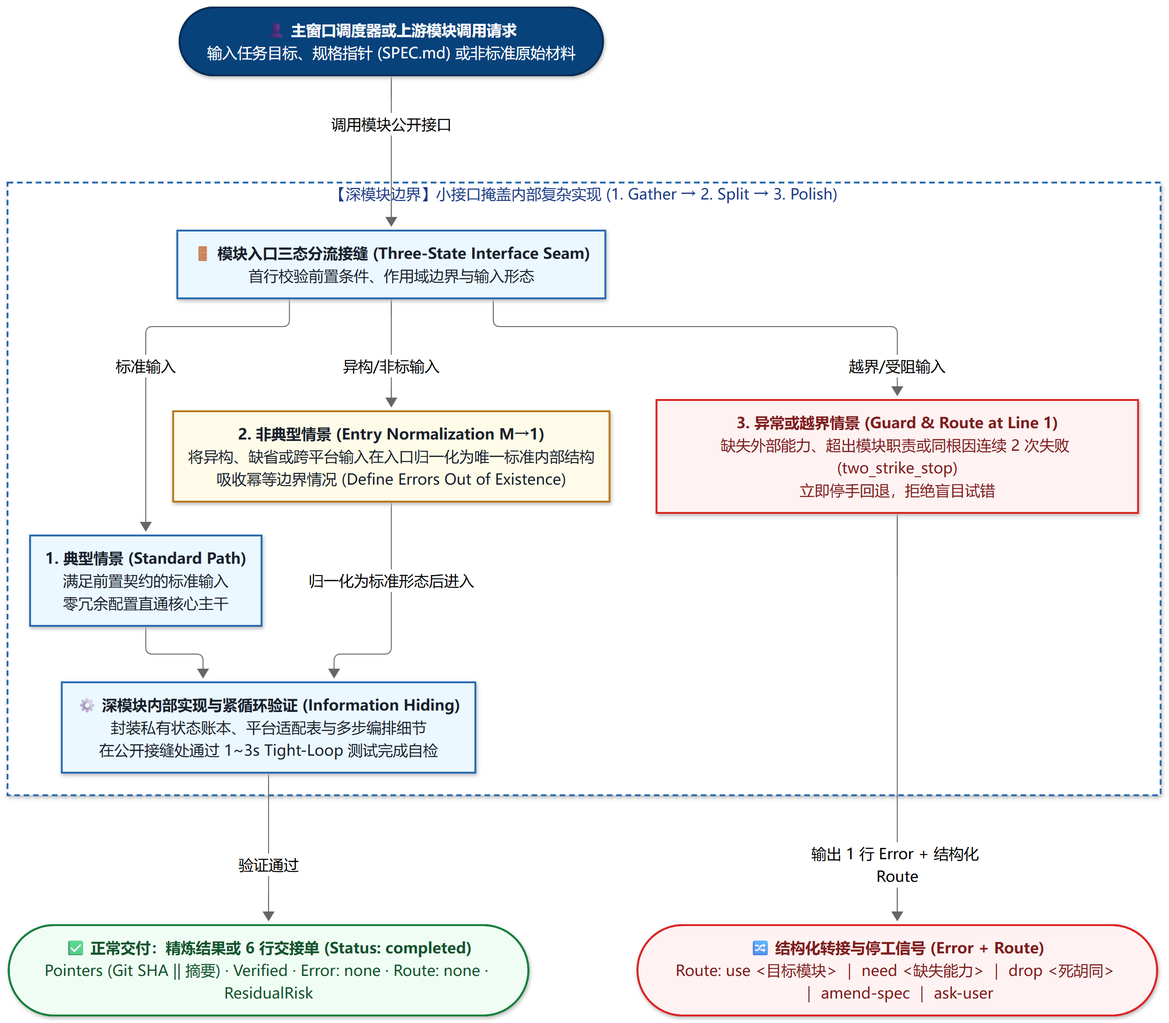
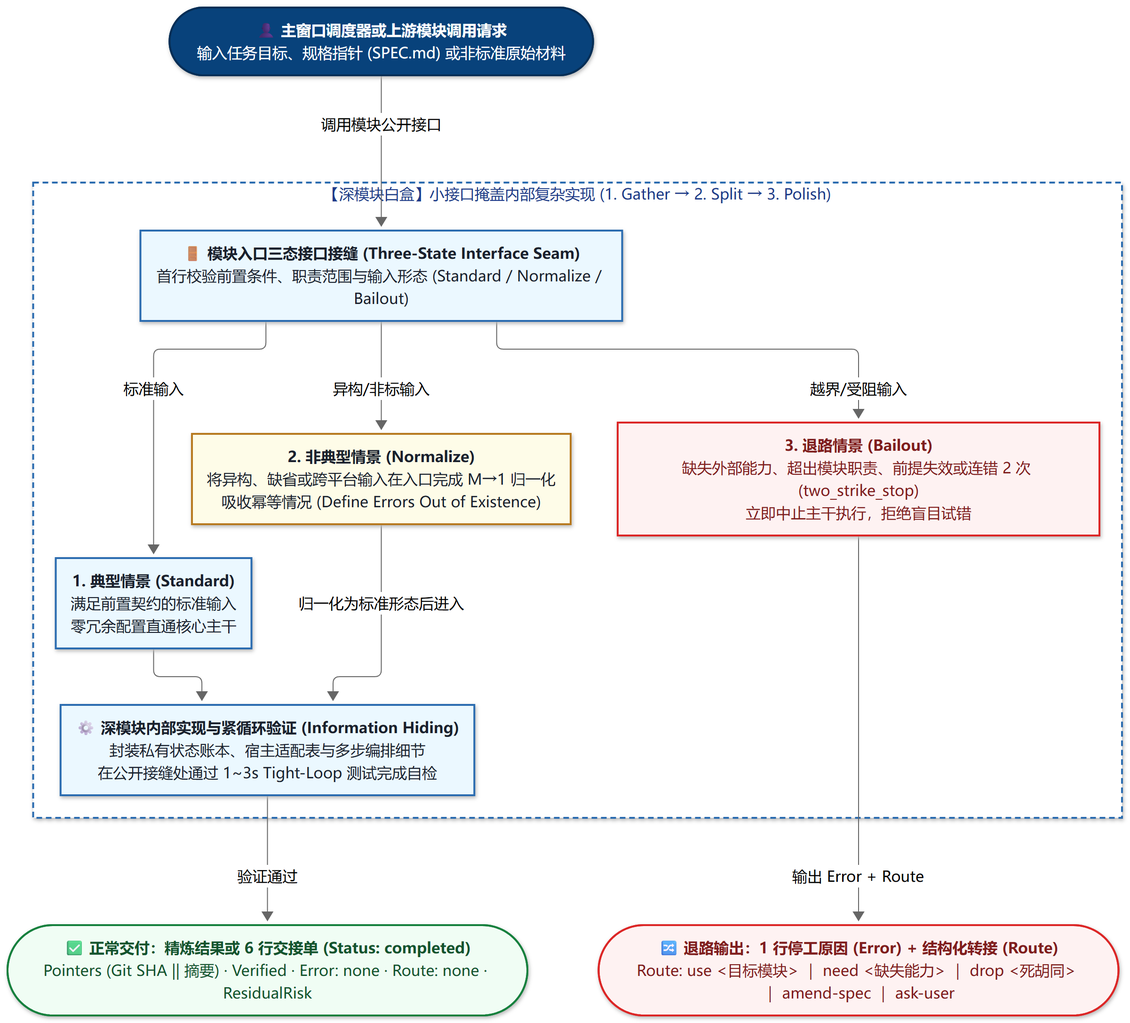
docs: unify Bailout (退路情景) three-state contract and convert diagram/merge skills to English

diff --git a/Skills/mermaid-diagrams/SKILL.md b/Skills/mermaid-diagrams/SKILL.md
@@ -1,74 +1,75 @@
 ---
 name: mermaid-diagrams
-description: 在回答或 Markdown 文档中用 Mermaid 创建、修改高清系统架构图（C4 C1/C2/C3）、跨角色时序图、业务状态生命周期图、SRE 瑞士奶酪故障屏障图、Novak 命题概念图与数学交换推导图。涉及多模块协作、多分支流转、状态机、故障传导或复杂概念推演时主动使用。
+description: Create and refine high-resolution Mermaid diagrams in responses or Markdown documents, including C4 architecture views (C1/C2/C3), numbered cross-actor sequence diagrams, state lifecycle diagrams, SRE Swiss Cheese fault-barrier diagrams, Novak proposition concept maps, and mathematical commutative diagrams. Use whenever explaining cross-module seams, multi-branch flows, state machines, cascading fault barriers, or mathematical/conceptual transformations.
 metadata:
   upstream: softaworks/agent-toolkit
   upstream-commit: 3027f20f3181758385a1bb8c022d4041dfb4de84
-  local-adaptation: "2026-11-05"
+  local-adaptation: "2026-11-06"
 ---
 
-# Mermaid 图解表达深模块（判定、规模契约与六大标准模板）
+# Mermaid Diagramming Deep Module (`mermaid-diagrams`)
 
-本模块统一维护全库的**画图判定、版面规模、交付形式与六大标准 Mermaid 代码模板**（长期表达目标见 [全局协作规则](../../Agent全局配置/Global_Agent_Rules.md)）。
+Top-level orchestrator (**Role B1**) for diagram selection, scale discipline, single-track delivery (`.md` vs. `.png`), and six canonical Mermaid templates (user-facing reporting language follows [Global_Agent_Rules.md](../../Agent全局配置/Global_Agent_Rules.md)).
 
-## 0. 模块职责、输入归一化与异常转接契约
+## 0. Three-State Interface Contract (`Standard / Normalize / Bailout`)
 
-1. **典型情景（直接处理）**：涉及跨模块接缝（`Seam`）、多分支流转、状态生命周期、多道故障屏障或概念/数学等价变换时，直接按下方规模与模板绘制图解。
-2. **非典型情景（先归一化再处理）**：
-   - 若信息仅是 $\le 5$ 步单线操作或 $\ge 3$ 项并列维度对比，先归一化为**列表**或**对比表格**，不强行画图；
-   - 若单图核心节点超过 15 个或跨多层抽象，先拆分为**“1 张宏观总览图 + 1 张局部放大图”**再绘制；
-   - 若分支回路复杂、连线交叉或标签拥挤，先调用子零件 [node-link-and-diagram-layout](../node-link-and-diagram-layout/SKILL.md) 整理排列方向与分组，再落图。
-3. **异常或越界情景（输出停工说明 `Error` 与转接建议 `Route`）**：
-   - 需要先做代码库深模块扫描与候选方案对拷 → 输出 `Route: use improve-codebase-architecture: scan codebase seams before drawing before/after C4 diagrams`；
-   - 批量渲染脚本 `scripts/render-batch.mjs` 因本机缺少 Headless Chrome 或依赖失败 → 输出 `Error: <原因>` 与 `Route: need headless-chrome-or-mmdc: fall back to standalone .md Mermaid delivery`。
+1. **`Standard` (handle directly)**: When the target structure involves cross-module **seams** (`Seam`), multi-branch control flow, state lifecycles, multi-layer fault barriers, or conceptual/mathematical equivalence transformations within **5–15 core nodes**, select the matching template below and draw directly.
+2. **`Normalize` (normalize $M \to 1$ at entry, then handle)**:
+   - If the content is a linear sequence of $\le 5$ steps or a parallel comparison across $\ge 3$ dimensions, normalize it into a **list** or **comparison table** rather than drawing a diagram;
+   - If a diagram exceeds **15 core nodes** or mixes abstraction layers, normalize it into **"1 macro overview diagram + 1 whitebox zoom-in diagram"** ($\le 15$ nodes each) before drawing;
+   - If complex branching, return loops, long labels, or edge crossings hurt readability, invoke the layout child part [`node-link-and-diagram-layout`](../node-link-and-diagram-layout/SKILL.md) first to normalize direction (`TB` vs. `LR`), grouping, and connector routing.
+3. **`Bailout` (abort main path and emit `Error` + `Route`)**:
+   - When asked to draw before/after C4 architecture views for an unexamined codebase that requires deep-module seam discovery first → emit `Error: codebase seams not yet audited` and `Route: use codebase-design: audit module seams and deepen candidates before drawing C4 views`;
+   - When the batch renderer `scripts/render-batch.mjs` fails due to a missing Headless Chrome binary or runtime dependency → emit `Error: <reason>` and `Route: need headless-chrome: fall back to standalone .md Mermaid delivery`.
 
 ---
 
-## 一、什么时候不画图，什么时候画图
+## 1. When Not to Draw vs. When to Draw
 
-按信息的自身结构选择合适的呈现方式：
+Match the visual form to the intrinsic structure of the information:
 
-| 信息结构特征 | 适用场景 | 推荐呈现方式 | 判断依据 |
+| Information Structure | Target Scenario | Canonical Form | Selection Criterion |
 | :--- | :--- | :--- | :--- |
-| **1. 单线顺序步骤或单维度要点**<br>（$\le 5$ 步顺序操作、无分支、无回环） | 操作步骤与说明 | **有序或无序列表** | 每个条目只包含 1 个动作且按单线推进时，直接用列表，便于扫读与复制命令。 |
-| **2. 多对象并列对比或归因清单**<br>（$\ge 3$ 个同类对象或 $\ge 3$ 个可比维度、故障归因、改造前后对照） | 结构化查阅与对比 | **对比表格** 或 **LaTeX 对齐阵列** | 并列条目共享 3 个及以上可比属性（如：现象 / 触发条件 / 失守点 / 修复动作）时，表格横向扫读效率高于连线图；数学双轨序列对齐使用 LaTeX `\begin{array}`。 |
-| **3. 跨模块接缝（`Seam`）、多分支流转、状态回环或等价变换** | 机制理解与复杂排障 | **独立图解文档或高清图片**<br>（默认独立 `.md`） | 存在跨容器/跨模块接口接缝、多分支条件判据、异步回调闭环、多道防线穿透或双路径等价变换，纯文字需要反复写“若 A 则跳回 X”时才画图。 |
+| **1. Linear sequential steps or single-dimension points**<br>($\le 5$ sequential steps, no branches, no loops) | Operational steps & instructions | **Ordered or unordered list** | When each item performs one action in a single linear chain, use a list for fast scanning and command copying. |
+| **2. Multi-item parallel comparison or attribution**<br>($\ge 3$ peer items or $\ge 3$ comparable dimensions, root-cause matrices, before/after diffs) | Structured comparison & lookup | **Comparison table** or **LaTeX aligned array** | When peer items share $\ge 3$ attributes (e.g., symptom / trigger / breached seam / fix), horizontal table scanning beats node-link boxes; use LaTeX `\begin{array}` for dual-track math alignments. |
+| **3. Cross-module seams (`Seam`), multi-branch flows, state loops, or equivalence transforms** | Mechanism comprehension & complex debugging | **Standalone `.md` diagram** or **high-res `.png`** | Draw only when cross-container/cross-module seams, conditional branches, async callbacks, multi-layer fault barriers, or dual-path equivalence transforms would force prose to repeat `"if A, jump back to X"`. |
 
 ---
 
-## 二、交付形式与版面规模原则
+## 2. Delivery Mode & Scale Discipline
 
-### 1. 交付形式（`.md` 简要图与 `.png` 大图二选一）
-- **默认交付：独立 `.md` 简要图文档**：日常对话、架构分析或排障解释需要画图时，在当前会话目录创建一份独立的 `.md` 图解文档（集中放入 Mermaid 代码块与必要图例），在对话正文对应句尾内嵌 `[图解名称](file:///...md)` 直链（例如 `整体流转见 [系统架构图解](file:///...md)。`）。此时不额外调用渲染脚本生成 `.png`。
-- **按需交付：高清 `.png` 大图（用户要求导出图片或写入笔记长期归档时启用）**：当用户要求导出图片，或需要将定稿图嵌入 Obsidian 笔记长期归档时，将 Mermaid 源码写入临时 `.mmd` 并调用 `node "scripts/render-batch.mjs"` 批量导出 2x `.png`（见 [批量渲染说明](references/rendering.md)），在句尾内嵌 `[图名](file:///...png)` 交付（写入 Obsidian 笔记归档时用 `![图名](路径)`），不再重复创建装相同 Mermaid 代码块的展示用 `.md` 文档。
+### 1. Single-Track Delivery (Either Standalone `.md` or `.png`, Never Both)
+- **Default delivery — Standalone `.md` diagram document**: During everyday chat, architecture analysis, or debugging explanations, create a standalone `.md` diagram file in the active session folder (holding the Mermaid code block and brief legend) and link it inline at the end of the relevant sentence (`[Diagram Title](file:///...md)`). Do not run the PNG renderer in this mode.
+- **On-demand delivery — High-res `2x .png` image (when the user requests images or when archiving into persistent Obsidian notes)**: Write the Mermaid source to a temporary `.mmd` file, run `node "scripts/render-batch.mjs"` ([Batch Rendering](references/rendering.md)), and link or embed the resulting `.png` (`[Diagram Title](file:///...png)` in chat, or `![Diagram Title](path)` inside Obsidian notes) without creating a duplicate display `.md` file.
+- **Language separation (`Context-as-Sample`)**: Keep this skill's rules in compact English; render user-facing node and edge labels inside diagrams in plain, accurate Chinese per [Global_Agent_Rules.md](../../Agent全局配置/Global_Agent_Rules.md) unless requested otherwise.
 
-### 2. 版面与规模三原则
-1. **控制单图节点数量**：
-   - 单张图核心节点控制在 **5～15 个**，架构图 `subgraph` 边界框最多嵌套 **1 层**（一张图只打开 1 个容器白盒展示内部组件）。
-   - 超出 15 个节点时，拆分为**“1 张宏观总览图 + 1 张局部放大图”**，放入同一个独立 `.md` 图解文档上下对照。
-   - 概念图与数学交换图不加 `subgraph` 外框，用语义浅底色与实/虚线粗细区分角色。
-2. **阅读方向顺应结构自然延展**：
-   - 分层架构、跨角色时序、状态生命周期与多道防御切片默认采用从上到下（`TB`）；短链路或层级树采用从左到右（`LR`）。
-3. **选用匹配的原生图型**：
-   - 按场景选用 Mermaid 原生图型（`flowchart`、`sequenceDiagram`、`stateDiagram-v2`、`classDiagram`、`erDiagram`）。
-   - 每条有向连线写明主动动词或守卫条件，子图 `style` 保持常规字重以免标题截断。
+### 2. Three Scale & Layout Invariants
+1. **Node & `subgraph` budget**:
+   - Keep each diagram within **5–15 core nodes** and at most **1 level of `subgraph` nesting** (open at most 1 container whitebox per diagram).
+   - Above 15 nodes, split into **"1 macro overview + 1 whitebox zoom-in"**.
+   - Use **0 `subgraph` boxes** in Novak concept maps and mathematical commutative diagrams; distinguish roles via semantic pastel fills and stroke weights.
+2. **Reading direction**:
+   - Default to top-to-bottom (`TB`) for layered architectures, cross-actor sequences, state lifecycles, and Swiss Cheese defense slices; use left-to-right (`LR`) for short pipelines or shallow trees.
+3. **Native Mermaid diagram types & active-verb edges**:
+   - Select the native Mermaid diagram type that matches the domain (`flowchart`, `sequenceDiagram`, `stateDiagram-v2`, `classDiagram`, `erDiagram`).
+   - Put an active verb or guard condition on every directed edge, and omit `font-weight:bold` from `style SubgraphID` so SVG header labels never clip.
 
 ---
 
-## 三、六类常见场景与代码模板速查
+## 3. Six Canonical Scenarios & Template Routing Table
 
-| 读者想搞懂的问题 | 对应图解范式与本地代码模板 | 节点要写清什么 | 连线要写清什么 |
+| Reader's Core Question | Canonical Diagram Paradigm & Template | What Each Node Must State | What Each Edge Must State |
 | :--- | :--- | :--- | :--- |
-| **1. 软件有哪些独立程序与外部系统、整体怎么配合？（宏观边界）** | **C4 Level 1/2（系统上下文 / 容器图）**<br>（模板：[C4 架构图手册](references/c4-diagrams.md)） | 角色 / 独立运行容器 / 数据库 + `[类型]` + 一句话对外职责 | 谁向谁发起什么业务动作 + 传输介质 |
-| **2. 某个程序内部有哪些深模块、各自管什么账与接口？（内部放大）** | **C4 Level 3（组件/深模块契约图）**<br>（模板：下方 Template 1 · [领域契约图](references/class-diagrams.md)） | 内部深模块名称 + 负责的数据源 + 对外接口契约（底层函数名留给正文对照表） | 模块间调用规则、输入输出凭据与异常退路 |
-| **3. 一次请求或操作怎么跨角色跑通？（动态交互）** | **带编号跨角色时序图**<br>（模板：下方 Template 2 · [时序图手册](references/sequence-diagrams.md)） | 3～5 个真实职责泳道（客户端 / 服务端 / 核心库 / 外部网关） | ①②③ 编号 + 实线同步请求 / 虚线异步回调；用 `alt/else` 框出正常路径与异常降级 |
-| **4. 业务对象的状态怎么切换、何时挂起或终结？（生命周期）** | **业务状态生命周期图**<br>（模板：下方 Template 3，原生 `stateDiagram-v2`） | 业务状态名 + 含义短注（用浅底色区分初始态、等待态、成功/异常终态） | 触发状态切换的业务事件或守卫条件 |
-| **5. 复杂故障为什么发生、修复方案在哪道门拦截？（排障复盘）** | **瑞士奶酪防御屏障图**<br>（模板：下方 Template 4） | 触发源、各道防线被穿透的 `❌ 漏洞`、新增的 `🛡 修复屏障` 与终态结果 | 粗红实线 `==>` 表示故障穿透路径；绿线表示新增屏障拦截与降级路径 |
-| **6. 新概念原理或数学方法如何一步步推演？（认知与数学）** | **命题概念图** 或 **数学交换图**<br>（模板：下方 Template 5 & 6） | 免 `subgraph` 外框：宏观概念/空间名 + 微观直觉/算式 | `[节点A] + 连线谓词短语 + [节点B]` 能连读成完整句子；数学交换图注明等价条件与算子 |
+| **1. What independent runtime containers and external systems exist, and how do they interact? (Macro Seams)** | **C4 Level 1/2 (System Context / Container View)**<br>(See [C4 Diagrams](references/c4-diagrams.md)) | Actor / runtime container / database + `[Type]` + one-line external responsibility | Caller action + transport protocol |
+| **2. Which deep modules live inside a container, and what seams/contracts do they expose? (Whitebox Zoom-in)** | **C4 Level 3 (Component / Deep Module Contract View)**<br>(Template 1 below · [Domain Contracts](references/class-diagrams.md)) | Internal deep module name + owned state + public interface contract | Inter-module call rule, payload contract, and bailout path |
+| **3. How does a request or workflow execute chronologically across actors? (Runtime View)** | **Stripe-Style Numbered Cross-Actor Sequence**<br>(Template 2 below · [Sequence Diagrams](references/sequence-diagrams.md)) | 3–5 participant swimlanes (Client / Backend / Core Module / External Gateway) | Numbered steps (`①②③`) + solid sync calls / dashed async callbacks; `alt/else` for happy path vs. bailout |
+| **4. How does a domain object transition across states, suspensions, and terminal outcomes? (Lifecycle)** | **Business State Lifecycle (`stateDiagram-v2`)**<br>(Template 3 below) | State name + one-line invariant (color-coded for initial, waiting, success, and terminal states) | Triggering domain event or guard condition |
+| **5. Why did a cascading failure occur, and which barrier intercepts it at each defense layer? (Postmortem)** | **SRE Swiss Cheese Fault & Defense Barrier**<br>(Template 4 below) | Hazard trigger, breached `❌ Hole` per slice, added `🛡 Remediation Barrier` per slice, and terminal outcome | Thick red `==>` for fault penetration path; dashed/green edges for barrier interception and graceful degradation |
+| **6. How does a theoretical concept or mathematical transformation work step by step? (Cognition & Math)** | **Novak Concept Map** or **Mathematical Commutative Diagram**<br>(Templates 5 & 6 below) | Box-free (`0 subgraph`): macro concept or space name + micro intuition or formula | `[Node A] + linking verb phrase + [Node B]` forms a complete proposition; math arrows state operators and domain guards |
 
 ---
 
-## 四、六大经典场景标准代码模板 (Canonical Reference Examples)
+## 4. Six Canonical Reference Templates (Context-as-Sample Exemplars)
 
 ### Template 1: C4 Level 3 Component & Deep Module Contract (Simon Brown's Classic *Big Bank plc* Pattern)
 > **Standard**: Simon Brown C4 Component View & arc42 Section 5 Blackbox/Whitebox Rule (see [C4 Diagrams](references/c4-diagrams.md) for C1/C2 templates).
@@ -84,12 +85,12 @@ flowchart TB
     EmailSys["🌐 外部邮件服务 (E-mail System)<br/>[External Software System]"]:::ext
     Mainframe["🏦 银行核心账务大型机 (Mainframe Banking System)<br/>[External Software System]"]:::ext
 
-    subgraph ApiBoundary ["【C3 容器内部边界】网上银行后端服务 (API Application)"]
+    subgraph ApiBoundary ["【C3 容器内部白盒】网上银行后端服务 (API Application)"]
         direction TB
         SignInCtrl["<b>登录认证控制器 (Sign In Controller)</b><br/>[Component: Spring MVC RestController]<br/>职责：接收客户登录凭证并签发访问令牌"]:::comp
         AcctCtrl["<b>账户总览控制器 (Accounts Summary Controller)</b><br/>[Component: Spring MVC RestController]<br/>职责：向已认证客户返回账户余额与近期流水概览"]:::comp
-        SecComp["<b>安全与权限核验模块 (Security Component)</b><br/>[Component: Spring Bean]<br/>职责：统一校验密码哈希、会话令牌与权限边界"]:::comp
-        CoreAdapter["<b>核心账务系统防腐适配器 (Mainframe Banking System Facade)</b><br/>[Component: Spring Bean]<br/>职责：封装大型机遗留 XML 协议，对外提供稳定领域接口"]:::comp
+        SecComp["<b>安全与权限核验模块 (Security Component)</b><br/>[Component: Spring Bean]<br/>职责：统一校验密码哈希、会话令牌与权限接缝"]:::comp
+        CoreAdapter["<b>核心账务系统防腐适配器 (Mainframe Banking System Facade)</b><br/>[Component: Spring Bean]<br/>职责：封装大型机遗留 XML 协议，在接缝处对外提供稳定领域接口"]:::comp
     end
 
     UserDB[("🗄 用户与凭证数据库 (Database)<br/>[Container: Relational DB Schema]")]:::db
@@ -292,7 +293,7 @@ flowchart TB
     P -. "若直接在原空间硬套复合商求导法则，陷入" .-> Hard
     Hard -. "计算冗长且难以化简，阻碍抵达" .-> Q
 
-    P == "① 正变换 φ：两边取自然对数 ln |·|<br/>【适用边界：x ≠ 1, 2, 3 且根号内非负】" ==> T1
+    P == "① 正变换 φ：两边取自然对数 ln |·|<br/>【适用条件：x ≠ 1, 2, 3 且根号内非负】" ==> T1
     T1 == "② 变换域降维运算 D：对数性质将乘除幂降阶为线性加减" ==> T2
     T2 == "③ 逆变换 φ⁻¹：两边同乘原函数 f(x) 还原回原空间 (φ⁻¹ ∘ D ∘ φ = d/dx)" ==> Q
 ```
@@ -303,8 +304,8 @@ flowchart TB
 
 ---
 
-## 五、分图型语法手册、布局子零件与业界标杆出处
+## 5. Syntax References, Layout Child Part & Provenance
 
-- **Syntax & Type References**: [Flowcharts](references/flowcharts.md) · [Sequence Diagrams](references/sequence-diagrams.md) · [C4 Diagrams](references/c4-diagrams.md) · [Domain & Class Contracts](references/class-diagrams.md) · [ER & Data Ledgers](references/erd-diagrams.md) · [Cloud Topology](references/architecture-diagrams.md) · [Styling & De-Boxing](references/advanced-features.md) · [Batch Rendering (`render-batch.mjs`)](references/rendering.md)
-- **Layout Child Part**: [node-link-and-diagram-layout](../node-link-and-diagram-layout/SKILL.md)（复杂拓扑与连线路由优化）
-- **7 Authentic Industry Standard Diagrams & Provenance Links**: [业界权威图解标准与原版经典标杆库](../../参考资料/调研笔记/Diagram_Skills_Research/Diagram_Skill_Validation.md)
+- **Disclosed Type References (Load on Demand)**: [Flowcharts](references/flowcharts.md) · [Sequence Diagrams](references/sequence-diagrams.md) · [C4 Diagrams](references/c4-diagrams.md) · [Domain & Deep-Module Contracts](references/class-diagrams.md) · [ER & Data Ledgers](references/erd-diagrams.md) · [Cloud Topology](references/architecture-diagrams.md) · [Styling & De-Boxing](references/advanced-features.md) · [Batch Rendering (`render-batch.mjs`)](references/rendering.md)
+- **Layout Child Part**: [`node-link-and-diagram-layout`](../node-link-and-diagram-layout/SKILL.md) (layered, tree, and orthogonal routing for dense topologies)
+- **Industry Standard Exemplars & Provenance**: [Diagram_Skill_Validation.md](../../参考资料/调研笔记/Diagram_Skills_Research/Diagram_Skill_Validation.md)

diff --git a/Skills/node-link-and-diagram-layout/SKILL.md b/Skills/node-link-and-diagram-layout/SKILL.md
@@ -1,27 +1,23 @@
 ---
 name: node-link-and-diagram-layout
-description: 改善静态流程图、结构图、状态图和依赖图的布局。当分支、回路、嵌套分组、较长标签或连线交叉妨碍理解时，依据阅读任务选择排列、分组和连线路径，辅助当前绘图方式。
+description: Improve the layout of static flowcharts, architecture views, state diagrams, and dependency graphs. Use when branching, return loops, nested subgraphs, long labels, or connector crossings hurt readability and you need to select layout direction, grouping, or connector routing.
 metadata:
   upstream: openai/plugins
   upstream-commit: 0722921d5542fc593105c27bd52630babd8b8c2a
-  local-adaptation: "2026-11-01"
+  local-adaptation: "2026-11-06"
 ---
 
 # Node-Link and Diagram Layout
 
-> **Unified Rules**: See [mermaid-diagrams](../mermaid-diagrams/SKILL.md) for when to draw, node scale (`5–15` core nodes per diagram), and `subgraph` nesting limits. Use this skill when selecting layout algorithms, directional flow (`TB` vs `LR`), and connector routing.
+> **Unified Rules**: See [`mermaid-diagrams`](../mermaid-diagrams/SKILL.md) for when to draw, node scale (`5–15` core nodes per diagram), and `subgraph` nesting limits (`<= 1` level). Use this child skill when selecting layout algorithms, directional flow (`TB` vs. `LR`), module seam grouping, and connector routing.
 
 ## Layout decisions
 
-1. Identify the graph and reading task: parent-child depth, a directional process, state transitions, dependencies, or undirected relationships. Tree, layered, radial, and force layouts serve different purposes; use [algorithm selection](references/algorithm-selection.md) when the choice is unclear.
-2. Match placement and flow direction (`TB` vs `LR`) to the natural topology of the structure. Directional workflows, state transitions, and dependencies usually benefit from layered layout; rooted trees from tree layout. Force and stress methods fit undirected neighborhood exploration. See [layout families](references/layered-tree-force-and-radial-layouts.md) for cases that need a comparison.
-3. Treat connector routing separately: choose clear entry/exit sides where supported, reserve space for branch labels, and keep return paths traceable. Orthogonal routing often helps grouped structure; sparse graphs may be clear with simple lines. See [routing and quality](references/routing-overlap-and-quality.md) for crossings, ports, and overlap problems.
-4. Use the current renderer's supported controls. Mermaid can arrange nodes automatically but does not expose every layout constraint. Confirm configuration support before relying on it. Revise direction, grouping, or view decomposition when those changes clarify the same information; keep relations between split views explicit.
+1. **Identify the graph topology and reading task (`Standard` vs. `Normalize`)**: Distinguish parent-child hierarchies, directional workflows across module seams (`Seam`), state transitions, dependency DAGs, and undirected concept networks. Tree, layered, radial, and force layouts serve distinct tasks; consult [algorithm selection](references/algorithm-selection.md) when the choice is non-obvious.
+2. **Match placement and flow direction (`TB` vs. `LR`) to natural topology**: Directional workflows, state lifecycles, and dependency graphs default to layered top-to-bottom (`TB`) layout; short linear pipelines or rooted trees use left-to-right (`LR`) tree layout. Force and stress methods fit undirected neighborhood exploration. See [layout families](references/layered-tree-force-and-radial-layouts.md) for detailed comparisons.
+3. **Route connectors cleanly across seams**: Choose clear entry/exit ports where supported, keep edge labels concise so they never wrap onto single-character orphan lines, and keep return paths traceable. Avoid wrapping multi-rank cross-edges inside an outer `subgraph` when Dagre adds excessive vertical rank gaps; flatten to top-level peer nodes instead. See [routing and quality](references/routing-overlap-and-quality.md) for crossings, ports, and overlap fixes.
+4. **Normalize oversized views (`Normalize`) or trigger `Bailout` when unsupported**: Mermaid arranges nodes automatically and does not expose arbitrary coordinate pinning. When a view exceeds `15` core nodes or mixes macro containers with micro steps, normalize it into **"1 macro overview + 1 whitebox zoom-in"** with explicit seam names linking both views.
 
-## Quality and completion
+## Quality and completion criterion
 
-Review the visible result when available: the main reading direction is clear; text is complete; nodes and labels fit; links can be traced clearly with crossings visually distinct from junctions. Reserve dedicated padding for group titles above internal nodes and route incoming connectors around title bands so titles stay separated from node borders and connector lines. When a diagram mixes macro containers with fine-grained steps, keep peer nodes within each container at a consistent abstraction level and use split overview/detail views to represent cross-level relationships.
-
-## Source and maintenance
-
-Adapted from OpenAI's layout skill (`plugins/build-web-data-visualization/skills/node-link-and-diagram-layout`). Retains its graph-family, geometry, routing, and readability methods and three core references.
+Every layout pass is complete when the visible output satisfies four checks: (1) primary reading direction (`TB` or `LR`) is immediately clear; (2) all node and edge text is complete without truncation or single-character orphan wraps; (3) edges cross zero unrelated nodes and crossings are visually distinct from junctions; (4) peer nodes within each container sit at a consistent level of abstraction.

diff --git a/Agent全局配置/Global_Agent_Rules.md b/Agent全局配置/Global_Agent_Rules.md
@@ -6,7 +6,7 @@
 
 - **结论与全局先行**：首段直接给核心结论或解决方向。拆解复杂机制、数学方法或工作流前，先用两三句话交代全局版图（解决什么问题、由哪几部分组成、整体怎么配合），再展开细节。
 - **概念就地解释，一词一义**：首次引入陌生概念或技术名词时，保留真实名称，紧跟一句话说明它的作用或前置概念。同一个概念从头到尾只用同一个词，写清“哪个模块在什么条件下执行什么动作、产生什么结果”。
-- **只讲模块职责与接口契约**：涉及代码开发与系统排障时，讲清模块（`Module`）的对外职责、接缝（`Seam`）位置与三态接口契约（输入前置条件、输出与异常退路）；底层函数名、变量名与行号转化为业务动作描述，源码定位放进括号直链 `[模块/动作名](file:///...)` 或文末对照表（必需的命令、路径与文件名保留原样）。
+- **只讲模块职责与接口契约**：涉及代码开发与系统排障时，讲清模块（`Module`）的对外职责、接缝（`Seam`）位置与三态接口契约（`Standard` 典型情景、`Normalize` 非典型情景、`Bailout` 退路情景）；底层函数名、变量名与行号转化为业务动作描述，源码定位放进括号直链 `[模块/动作名](file:///...)` 或文末对照表（必需的命令、路径与文件名保留原样）。
 - **形式随内容而定**：因果推导用连贯段落；5 步以内的单线操作用列表；3 项以上并列对比或归因用表格；涉及跨模块接缝、多分支流转或状态回环时画图，画图前先读 [[Skills/mermaid-diagrams/SKILL.md|mermaid-diagrams]]。
 - **开放话题自然交谈**：讨论哲学、情感、人生或开放性思考时，放下固定汇报结构，用自然段落交谈，可以反问我。
 
@@ -27,5 +27,5 @@
 ## 四、技能职责契约与交付前核对
 
 - **开工授权、攒齐提问与长期值守**：讨论、回答追问、认可方案都不算开工指令；改文件、执行有副作用的命令或提交前，须等我明确说“开工 / 执行”（或我亲手输入执行类技能命令），此前只做只读调研并在收尾时列出待改清单后停下。任何宿主适配器下，凡需向我提问或请我拍板，**一律不使用宿主原生的提问弹窗工具**（如 `ask_question` 等），必须先自主查清全部可查事实，将当前互不依赖的待决问题一次性攒齐后，在对话正文中按 [[Skills/grilling/SKILL.md|grilling]] 格式（`❓ Qn` + `➡ 推荐方案`）统一提出。开工后长期值守、中途不提问：不改变用户可见行为的内部适配与波及测试同步自行决定并记入 `Accepted Amendments`（`amend-spec`）；会改变用户可见行为或重派后仍受阻的标记为隔离挂起（`quarantined`，附 `Route: ask-user`），继续跑完其余无阻塞工作后在收尾时按 `grilling` 格式统一列出。
-- **三态接口契约与调用边界**：未标 `disable-model-invocation: true` 的模块与子零件按任务自主选用；标有 `disable-model-invocation: true` 的重型编排或阶段转换技能（如 `develop`、`to-spec`、`to-tickets`）不参与日常无授权自动匹配，仅在我点名、我下达“开工 / 执行”后按顶层路由直达，或由已启动的顶层深模块按内部步骤调用。每个技能遵循统一**三态接口契约**：**典型情景（`Standard`）**直接处理；**非典型情景（`Normalize`）**先在入口完成 $M \to 1$ 归一化再处理；**异常或越界情景（`Error + Route`）**（缺失能力、超出职责或同根因连续 2 次无进展触发 `two_strike_stop`）立即停手，输出停工说明（`Error`）与转接建议（`Route: use <目标工具> | need <缺失能力> | drop <死胡同> | amend-spec <内部适配> | ask-user <人工决策>`）。
+- **三态接口契约与调用边界**：未标 `disable-model-invocation: true` 的模块与子零件按任务自主选用；标有 `disable-model-invocation: true` 的重型编排或阶段转换技能（如 `develop`、`to-spec`、`to-tickets`）不参与日常无授权自动匹配，仅在我点名、我下达“开工 / 执行”后按顶层路由直达，或由已启动的顶层深模块按内部步骤调用。每个技能遵循统一**三态接口契约（`Standard / Normalize / Bailout`）**：**典型情景（`Standard`）**条件满足直接处理；**非典型情景（`Normalize`）**先在入口完成 $M \to 1$ 归一化再处理；**退路情景（`Bailout`）**指当前模块因缺失能力、超出职责、前提失效或同根因连续 2 次无进展（`two_strike_stop`）而无法闭环时，立即中止主干执行，同时输出一行停工原因（`Error`）与结构化转接去向（`Route: use <目标工具> | need <缺失能力> | drop <死胡同> | amend-spec <内部适配> | ask-user <人工决策>`）。
 - **结果与出处核对**：交付前对照任务目标核对实际结果，如实说明未完成或未验证的部分；时效性事实末尾附“参考资料（来源 + 网址）”。

diff --git a/Skills/codebase-design/SKILL.md b/Skills/codebase-design/SKILL.md
@@ -32,6 +32,8 @@ Use these terms exactly: don't substitute "component," "service," "API," or "bou
 
 **Locality**: what maintainers get from depth. Change, bugs, knowledge, and verification concentrate in one place rather than spreading across callers. Fix once, fixed everywhere.
 
+**Bailout**: the third state of the **Three-State Interface Contract (`Standard / Normalize / Bailout`)**. When a module cannot close the loop locally—because a precondition fails, the request falls outside the module's responsibility, a required capability is missing, or execution hits two consecutive same-root-cause failures (`two_strike_stop`)—it immediately aborts the main path and emits both a one-line stop reason (`Error`) and a structured next-step directive (`Route: use | need | drop | amend-spec | ask-user`).
+
 ## Why Deep Modules Matter
 
 Complexity stems from **dependencies** (code that cannot be understood or modified in isolation) and **obscurity** (hidden assumptions and invariants), showing up as **change amplification**, **cognitive load**, and **unknown unknowns**. Deep modules fight complexity in three ways:
@@ -66,17 +68,17 @@ Deepening never means stuffing unrelated features into a monolith. When a module
 
 #### 3. Polish: Refine the Interface & Internals from Outside In
 Once scope is bounded by Steps 1 and 2, polish the module from its external seam inward:
-1. **Three-state interface contract (`Standard / Normalize / Error + Route`)**:
-   - *Standard path*: inputs meeting preconditions execute directly on the critical path;
-   - *Normalize at entry*: non-standard or partial inputs are normalized into canonical form at the entry before reaching core logic;
-   - *Guard & route at line 1 (`Error + Route`)*: out-of-scope inputs or blocked states are rejected at line 1 with a one-line `Error` and a structured next-step `Route` (`use`, `need`, `drop`, `amend-spec`, or `ask-user`).
+1. **Three-state interface contract (`Standard / Normalize / Bailout`)**:
+   - *`Standard`*: inputs meeting preconditions execute directly on the critical path;
+   - *`Normalize`*: non-standard or partial inputs are normalized ($M \to 1$) into canonical form at the entry before reaching core logic;
+   - *`Bailout`*: out-of-scope inputs, violated preconditions, missing capabilities, or blocked states (`two_strike_stop`) abort the main path at line 1 and emit both a one-line `Error` and a structured next-step `Route` (`use`, `need`, `drop`, `amend-spec`, or `ask-user`).
 2. **Flatten `if/else` branching from outside in**:
    - *Table-driven adapters at the seam*: replace multi-source or cross-host `else if` chains with a static lookup table of thin **Adapters**;
    - *Canonical entry normalization ($M \to 1$)*: convert $M$ heterogeneous input formats into $1$ canonical internal data structure at the entry;
    - *General internal model*: choose a data representation that treats edge cases as ordinary cases (e.g., representing an empty cursor as a selection of length `0`).
 3. **Pull complexity downwards & eliminate errors safely**:
    - *Mechanism vs. policy*: auto-compute internal mechanism parameters (buffer sizes, backoff intervals, shard counts) from runtime state instead of exporting config knobs; keep domain policy configurable at the interface with zero-config defaults for the 90% case;
-   - *Idempotent 4-tier error ladder*: (a) *Define errors out of existence* (silent target-state convergence, such as deleting an already-absent item) and (b) *low-level retry masking* apply **strictly to idempotent operations** that preserve data invariants; (c) *aggregate* remaining exceptions at a single top-level handler; (d) *fail fast* with `Error + Route` on non-idempotent side effects, broken invariants, or out-of-scope inputs.
+   - *Idempotent 4-tier error ladder*: (a) *Define errors out of existence* (silent target-state convergence, such as deleting an already-absent item) and (b) *low-level retry masking* apply **strictly to idempotent operations** that preserve data invariants; (c) *aggregate* remaining exceptions at a single top-level handler; (d) *trigger a `Bailout`* (`Error` + `Route`) on non-idempotent side effects, broken invariants, or out-of-scope inputs.
 4. **Write interface comments first as a complexity canary**:
    - Write interface comments (preconditions, units, invariants, with zero implementation details) before coding method bodies. If a module or parameter is *Hard to Pick a Name* for or *Hard to Describe* concisely, the abstraction is shallow—redesign it before coding.
    - Return results rather than mutating arguments, replace generic `Pair`/`Tuple` containers with named fields, and use one canonical term per concept (`GLOSSARY.md`).

diff --git a/Skills/writing-for-agents/SKILL.md b/Skills/writing-for-agents/SKILL.md
@@ -62,9 +62,9 @@ Polish each file from outside in according to the role it plays in the system:
 
 | Document / Directory Role | `1. Gather` (Scope & Seam) | `2. Split` (Hierarchy & Isolation) | `3. Polish` (Internal Structure & Entry Behavior) |
 | :--- | :--- | :--- | :--- |
-| **A. Standing Global Rules & Top Indexes**<br>(`AGENTS.md`, `README.md`, folder entry indexes) | Consolidate universal invariants and top-level routing in one master file; expose one entry index per folder. | Keep always-loaded text ultra-compact; push domain workflows behind one-line context pointers; separate active specs from archival logs. | State core collaboration invariants and a flat 1-hop domain routing list or table; define the global runtime `Error + Route` fallback once in the master rule file (place a redirect banner at the top of archival folders). |
-| **B1. Multi-Branch Domain Orchestrators**<br>(`develop`, `math-teaching`, `mermaid-diagrams`) | Package tightly coupled workflows and shared protocols behind one top-level `SKILL.md`. | Inline the 90% routing spine in `SKILL.md`; disclose heavy protocols (`testing.md`, `protocol.md`, `hosts.md`) in private sibling files. | Open with a compact entry scope & routing block (`Typical direct path / Non-typical entry normalization / Out-of-bounds Error + Route`) to dispatch sub-skills and guard domain boundaries. |
-| **B2. Focused Pipeline Skills**<br>(`code-review`, `diagnosing-bugs`, `tdd`) | Keep all steps for one cohesive pipeline in `SKILL.md`, with zero reverse links to parent orchestrator internals. | Inline the ordered pipeline steps; disclose large example banks (`tests.md`, `mocking.md`) in sibling files. | Start directly with the ordered workflow; weave $M \to 1$ entry normalization (e.g., default git refs or building a `red` loop), idempotent skip rules, and `Error + Route` bailouts directly into Step 1 and each step's completion criterion. |
+| **A. Standing Global Rules & Top Indexes**<br>(`AGENTS.md`, `README.md`, folder entry indexes) | Consolidate universal invariants and top-level routing in one master file; expose one entry index per folder. | Keep always-loaded text ultra-compact; push domain workflows behind one-line context pointers; separate active specs from archival logs. | State core collaboration invariants and a flat 1-hop domain routing list or table; define the global runtime `Bailout` (`Error` + `Route`) contract once in the master rule file (place a redirect banner at the top of archival folders). |
+| **B1. Multi-Branch Domain Orchestrators**<br>(`develop`, `math-teaching`, `mermaid-diagrams`) | Package tightly coupled workflows and shared protocols behind one top-level `SKILL.md`. | Inline the 90% routing spine in `SKILL.md`; disclose heavy protocols (`testing.md`, `protocol.md`, `hosts.md`) in private sibling files. | Open with a compact Three-State Interface Contract block (`Standard / Normalize / Bailout`) to dispatch sub-skills and guard module seams. |
+| **B2. Focused Pipeline Skills**<br>(`code-review`, `diagnosing-bugs`, `tdd`) | Keep all steps for one cohesive pipeline in `SKILL.md`, with zero reverse links to parent orchestrator internals. | Inline the ordered pipeline steps; disclose large example banks (`tests.md`, `mocking.md`) in sibling files. | Start directly with the ordered workflow; weave $M \to 1$ entry normalization (`Normalize`, e.g., default git refs or building a `red` loop), idempotent skip rules, and `Bailout` (`Error` + `Route`) exits directly into Step 1 and each step's completion criterion. |
 | **C. Pure Reference Docs & Domain Notes**<br>(`writing-for-agents`, `codebase-design`, domain notes) | Co-locate each concept's definition, rule, and caveat under one heading; maintain one canonical term per concept (`GLOSSARY.md`). | Push low-frequency sub-branch mechanics (`SKILL-MECHANICS.md`, `DEEPENING.md`, `DESIGN-IT-TWICE.md`) behind internal pointers. | Format the document itself as the stylistic exemplar: flatten `if/else` prose into top-to-bottom decision trees or comparison tables ($\ge 3$ parallel dimensions), anchor concepts with leading words, and phrase rules positively. |
 
 ### Steps, Completion Criteria & Script Gates

diff --git a/Skills/develop/SKILL.md b/Skills/develop/SKILL.md
@@ -10,17 +10,17 @@ Single entry point for software implementation, refactoring, bug fixing, and ver
 
 Once invoked after user go-ahead, execution runs **unattended without stopping to ask mid-flight**: non-breaking internal adaptations (Category 1) and approved blast-radius test syncs (Category 2) are decided autonomously and logged under `## Accepted Amendments & Internal Adaptations`; issues that would alter user-visible behavior or weaken acceptance assertions (Category 3) or exceed 1 clean-room relay (`two_strike_stop`) are marked `quarantined` while all remaining unblocked work continues, then surfaced together at the end ([protocol.md](protocol.md)).
 
-## Scope, Normalization, and Transfer Contract
+## Three-State Interface Contract (`Standard / Normalize / Bailout`)
 
-1. **Typical inputs (handle directly)**:
+1. **`Standard` (handle directly)**:
    - **Small / single-slice change**: a single localized ticket or small feature/fix with settled decisions, without a multi-ticket dependency graph.
    - **Multi-ticket spec graph**: a `SPEC.md` and associated tickets with blocking relationships (`Blocked by`).
-2. **Non-typical inputs (normalize first, then handle)**:
+2. **`Normalize` (normalize $M \to 1$ at entry, then handle)**:
    - **Homogeneous bulk scan or mechanical transform ($\ge 20$ independent files)**: normalize into a local worker script (`max_workers=4`) and dispatch subagents only for flagged exceptions.
-   - **Module boundary, state ledger, or interface redesign**: normalize interface seams, flatten case-by-case branching, and design concurrency isolation first using the [`codebase-design`](../codebase-design/SKILL.md) skill before writing code.
+   - **Module seam, state ledger, or interface redesign**: normalize interface seams, flatten case-by-case branching, and design concurrency isolation first using the [`codebase-design`](../codebase-design/SKILL.md) skill before writing code.
    - **Hard bug without a reproduction loop**: normalize via the `diagnosing-bugs` skill to establish a single red command before attempting fixes.
-3. **Out-of-bounds or blocked cases (stop note + transfer route)**:
-   - Unattended execution never blocks on the user. When a step hits two consecutive same-root-cause failures (`two_strike_stop`), misses a required capability, or encounters a spec/credential conflict, it halts cleanly and outputs a one-line `Error` and structured `Route` (`use`, `need`, `drop`, `amend-spec`, or `ask-user`) per [protocol.md](protocol.md).
+3. **`Bailout` (abort main path and emit `Error` + `Route`)**:
+   - Unattended execution never blocks on the user. When a step hits two consecutive same-root-cause failures (`two_strike_stop`), misses a required capability, or encounters a spec/credential conflict, it triggers a **Bailout**: halts cleanly and outputs a one-line `Error` and structured `Route` (`use`, `need`, `drop`, `amend-spec`, or `ask-user`) per [protocol.md](protocol.md).
 
 ## Internal Reference Files (Load on Demand by Branch)
 

diff --git a/Skills/resolving-merge-conflicts/SKILL.md b/Skills/resolving-merge-conflicts/SKILL.md
@@ -1,16 +1,19 @@
 ---
 name: resolving-merge-conflicts
-description: "解决进行中的 Git merge 或 rebase 冲突。适用于分支合并或变基过程中出现代码冲突需要消解时。"
+description: Resolve in-progress Git merge or rebase conflicts cleanly. Use when a branch merge, rebase, or worktree integration hits conflicting hunks that must be reconciled and verified.
 ---
 
-# 解决合并与变基冲突
+# Resolving Merge & Rebase Conflicts
 
-1. **核查当前合并或变基状态**：检查 Git 提交历史与所有发生冲突的文件。
+1. **Inspect current merge or rebase state (`Standard` / `Normalize`)**: Run `git status --porcelain` and inspect `git log --merge -p` to list every conflicted file and identify the two diverging commits across the integration seam (`Seam`).
 
-2. **追溯每处冲突的一手来源**：深入理解双方改动各自的原因与原始意图。阅读提交说明、核查对应 PR，并查阅原始工单或规格文档。
+2. **Trace each side's primary source of truth**: Read the commit messages, ticket files, and Effective Spec (`Original Spec ⊕ Accepted Amendments`) for both `HEAD` and the incoming branch so you understand the exact invariant each side was trying to establish.
 
-3. **逐块消解冲突**：尽可能同时保留双方的修改意图；若双方意图互斥，选择符合本次合并既定目标的一方，并明确记录取舍理由。**切勿**在解冲突时凭空发明新行为。始终完成冲突消解，绝不执行 `--abort` 放弃。
+3. **Reconcile each conflicted hunk**:
+   - Preserve both sides' intent whenever they are orthogonal;
+   - When the two sides are mutually exclusive, select the side that conforms to the locked interface seam and Effective Spec, and document the rationale;
+   - **Never invent unrequested behavior** during conflict resolution, and never run `--abort` to abandon the integration unless triggering a structured **`Bailout`** (`Error` + `Route: ask-user`) on a genuine spec contradiction.
 
-4. **发现并运行项目的自动化检查**：通常按“类型检查 → 测试 → 代码格式化”的顺序执行，修复合并引入的一切破坏。
+4. **Verify at the module seam (`Tight Loop` + static typecheck)**: Run the target module's `1–3s` `Tight Loop` test command, static typechecker, and formatter in order, fixing any broken imports or contract mismatches introduced by the merge.
 
-5. **完成合并或变基**：暂存所有已解决的文件并提交；若处于变基（rebase）流程中，继续推进变基直至全部提交重放完毕。
+5. **Complete the merge or rebase**: Stage all resolved files (`git add`) and complete the commit or `git rebase --continue` until all commits replay cleanly and `git status --porcelain` is empty.

diff --git a/README.md b/README.md
@@ -20,7 +20,7 @@
   <img src="assets/diagram-deep-module-internals.png" width="96%" alt="Skills/develop 深模块内部白盒机制：吸收旧技能与 Caller Override 接缝注入" />
 </p>
 
-### 1.3 深模块三态接口契约与结构化转接（`Standard / Normalize / Error + Route`）
+### 1.3 深模块三态接口契约与结构化转接（`Standard / Normalize / Bailout`）
 
 <p align="center">
   <img src="assets/diagram-three-state-contract.png" width="92%" alt="深模块三态接口契约与结构化转接流转图" />
@@ -28,7 +28,7 @@
 
 | 目录 / 入口文件 | 角色定位 | 说明 |
 | :--- | :--- | :--- |
-| **[`Agent全局配置/Global_Agent_Rules.md`](Agent全局配置/Global_Agent_Rules.md)** | 全库唯一顶层路由器（Role A） | 统一汇报语体契约、求真溯源与高噪隔离、四大核心深模块一步直达路由以及三态接口契约（`Standard / Normalize / Error + Route`） |
+| **[`Agent全局配置/Global_Agent_Rules.md`](Agent全局配置/Global_Agent_Rules.md)** | 全库唯一顶层路由器（Role A） | 统一汇报语体契约、求真溯源与高噪隔离、四大核心深模块一步直达路由以及三态接口契约（`Standard / Normalize / Bailout`） |
 | **[`Skills/develop/SKILL.md`](Skills/develop/SKILL.md)** | 软件开发与长程编排深模块（Role B1） | 唯一软件开发入口：已消化合并原 `implement-spec`、`implement`、`engineering-decisions`，按规模自动分流单切片流与多工单 DAG 流，内部按分支渐进加载测试节奏（[`testing.md`](Skills/develop/testing.md)）、6 行交接与修订协议（[`protocol.md`](Skills/develop/protocol.md)）及多宿主适配（[`hosts.md`](Skills/develop/hosts.md)） |
 | **[`Skills/codebase-design/SKILL.md`](Skills/codebase-design/SKILL.md)** | 深模块设计方法论底座（Role B2） | `1. Gather → 2. Split → 3. Polish` 深模块构造决策树与多工单并发四阶段防线，内部按需加载 [`DEEPENING.md`](Skills/codebase-design/DEEPENING.md) 与 [`DESIGN-IT-TWICE.md`](Skills/codebase-design/DESIGN-IT-TWICE.md) |
 | **[`Skills/writing-for-agents/SKILL.md`](Skills/writing-for-agents/SKILL.md)** | 提示词、技能与知识库构建深模块（Role B2） | 全量上下文即样本、双重负载权衡、四象限引导，以及按 `Gather → Split → Polish` 构造与打磨 A/B1/B2/C 四类文档角色，内部按需加载 [`SKILL-MECHANICS.md`](Skills/writing-for-agents/SKILL-MECHANICS.md) |

diff --git a/Skills/mermaid-diagrams/references/c4-diagrams.md b/Skills/mermaid-diagrams/references/c4-diagrams.md
@@ -1,6 +1,6 @@
 # C4 Architecture Diagrams (C1 System Context, C2 Container, C3 Component)
 
-> **Unified Rules**: See [SKILL.md](../SKILL.md) for C4 zoom discipline (`C1`–`C3` stop at deep modules), arc42 blackbox/whitebox boundaries (`Whitebox contains Blackboxes`), and **Template 1 (C4 Level 3 Component / Deep Module View)**.
+> **Unified Rules**: See [SKILL.md](../SKILL.md) for C4 zoom discipline (`C1`–`C3` stop at deep modules), arc42 blackbox/whitebox seam rules (`Whitebox contains Blackboxes`), and **Template 1 (C4 Level 3 Component / Deep Module View)**.
 
 ---
 

diff --git a/Skills/mermaid-diagrams/references/architecture-diagrams.md b/Skills/mermaid-diagrams/references/architecture-diagrams.md
@@ -1,6 +1,6 @@
 # Cloud & Deployment Topology (`flowchart TB` Deployment View)
 
-> **Unified Rules**: See [SKILL.md](../SKILL.md) for C4/arc42 deployment boundaries, Tufte semantic layering, and unidirectional verb + `[协议]` edge contracts.
+> **Unified Rules**: See [SKILL.md](../SKILL.md) for C4/arc42 deployment seams, Tufte semantic layering, and unidirectional verb + `[协议]` edge contracts.
 
 ## Canonical Example: Edge-to-Database Cloud Deployment Topology
 
